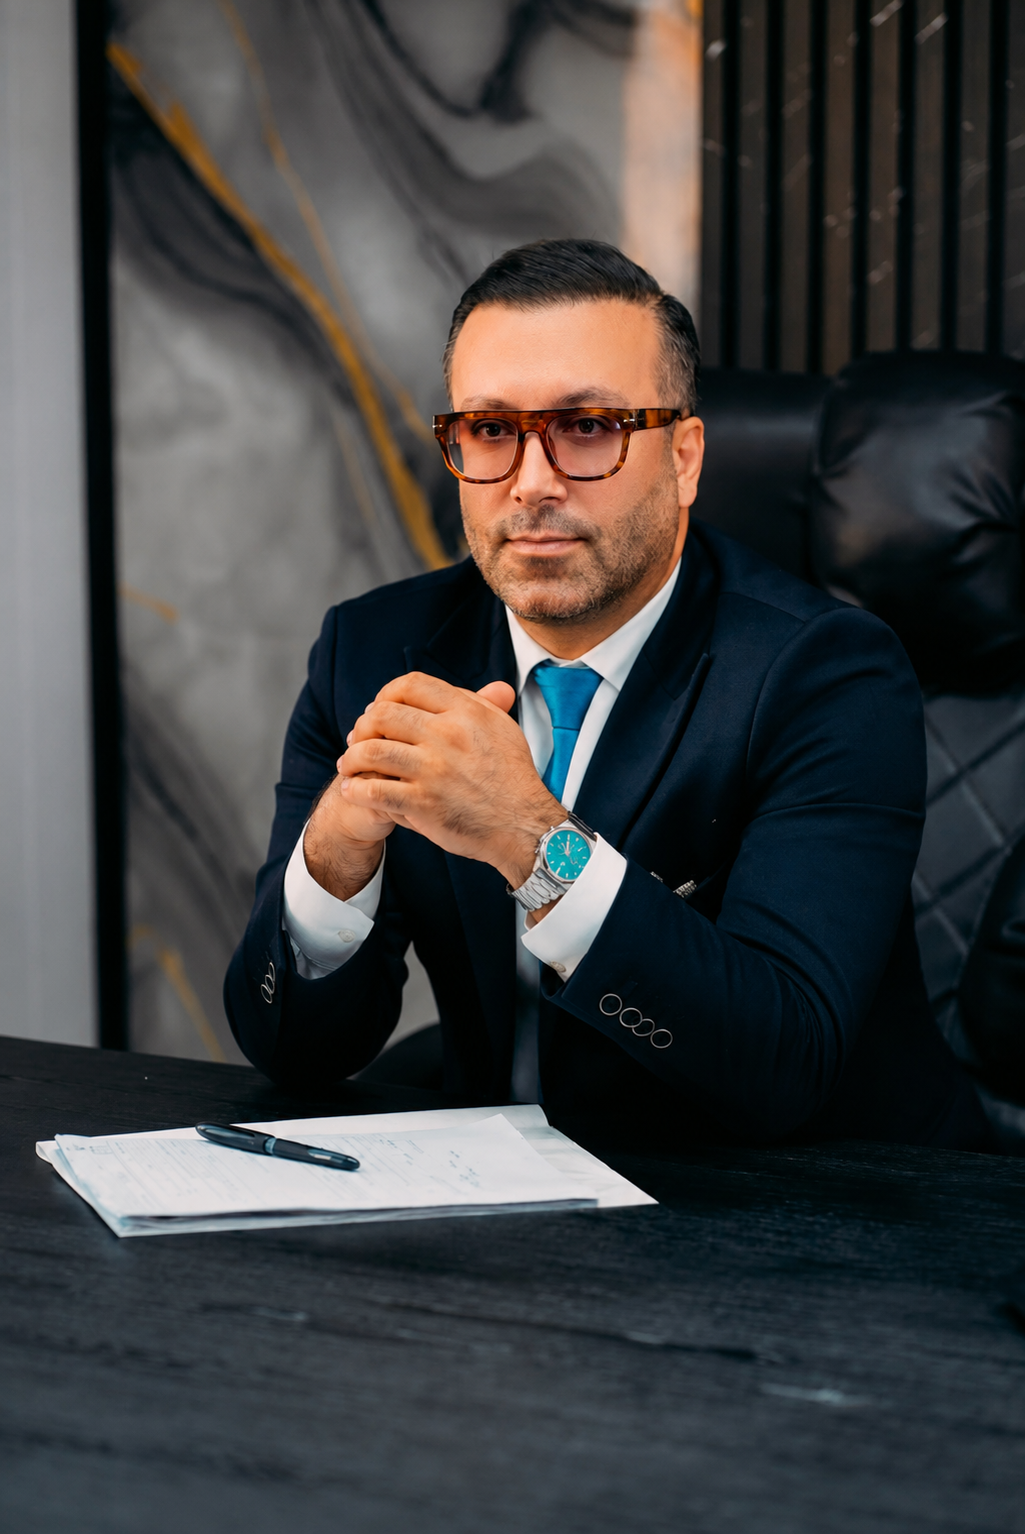
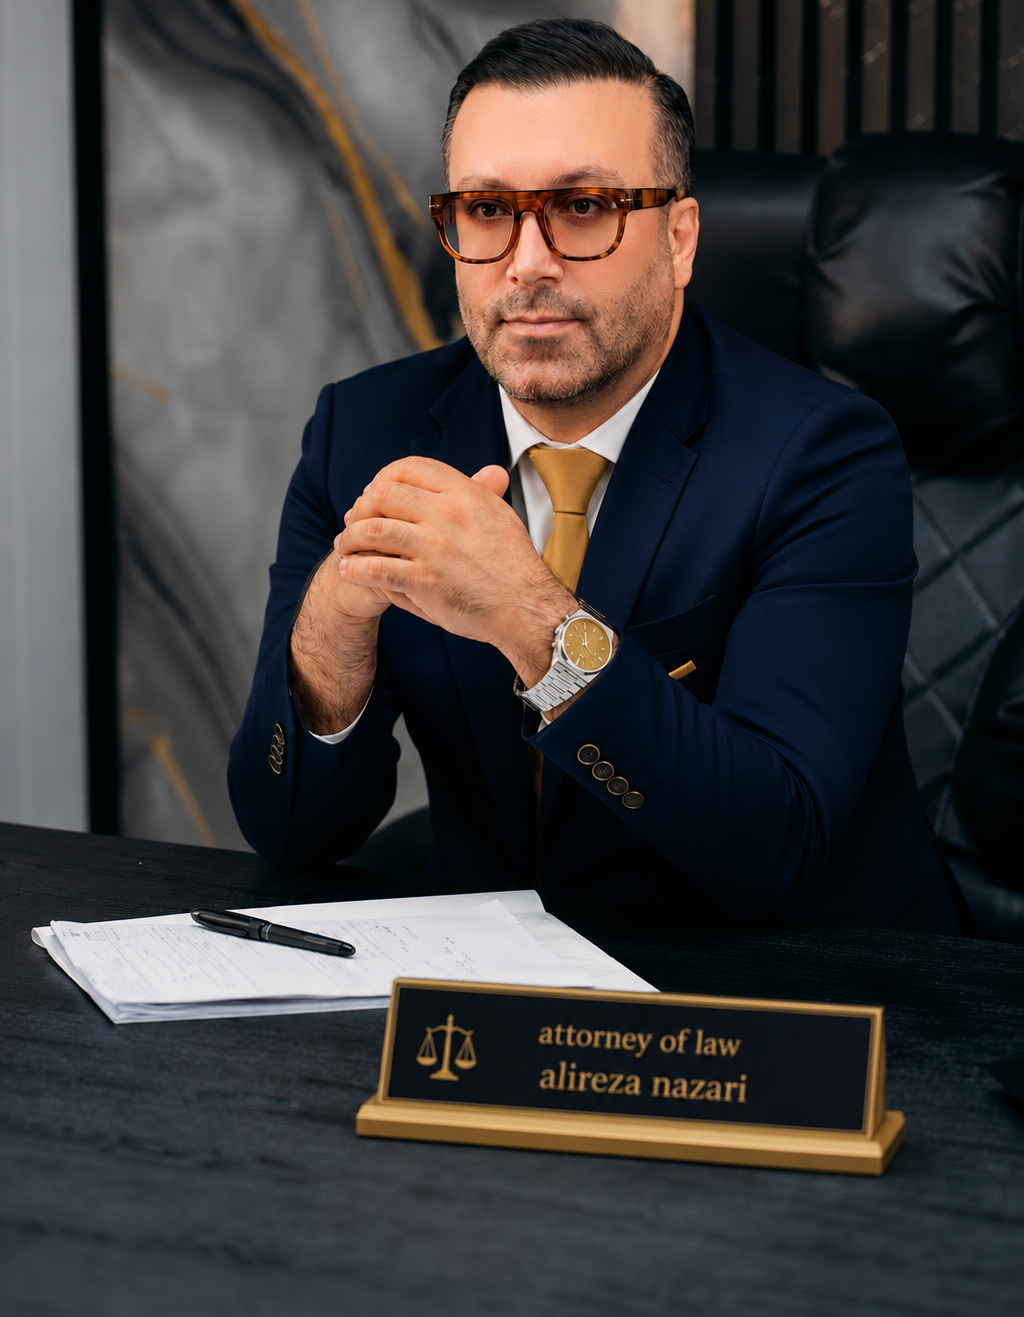
change photo

diff --git a/src/components/AskQuestionForm.tsx b/src/components/AskQuestionForm.tsx
@@ -171,7 +171,7 @@ export function AskQuestionForm({ categories }: { categories: Record<string, str
           style={{ background: '#4cb4c9' }}>{user.name.charAt(0)}</div>
         <div className="flex-1 min-w-0">
           <p className="text-ivory text-sm font-medium truncate">{user.name}</p>
-          <p className="text-xs truncate" style={{ color: 'rgba(246,248,250,0.35)' }} dir="ltr">{user.email}</p>
+          <p className="text-xs truncate" style={{ color: 'rgba(246,248,250,0.35)' }} dir="ltr">{user.phone}</p>
         </div>
         <span className="text-xs flex items-center gap-1 text-emerald-400 flex-shrink-0">
           <CheckCircle2 size={12} /> وارد شده
